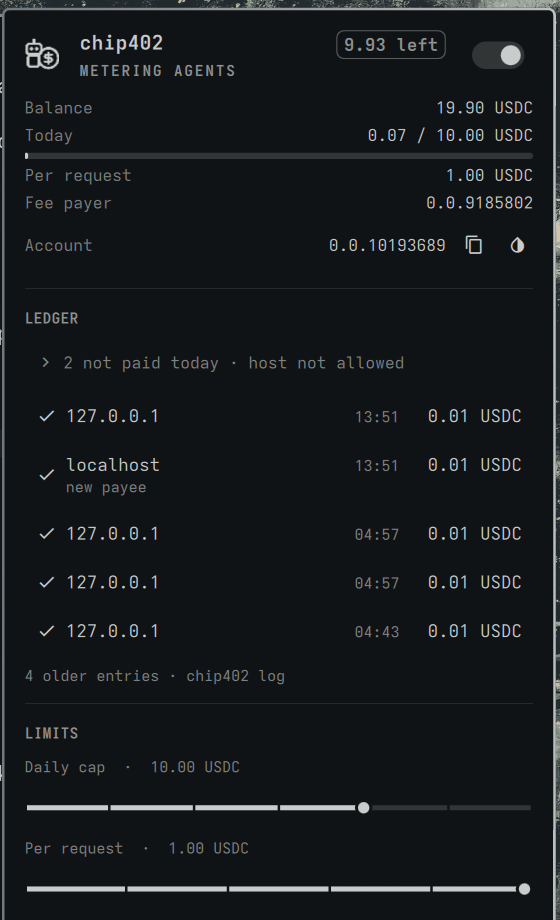
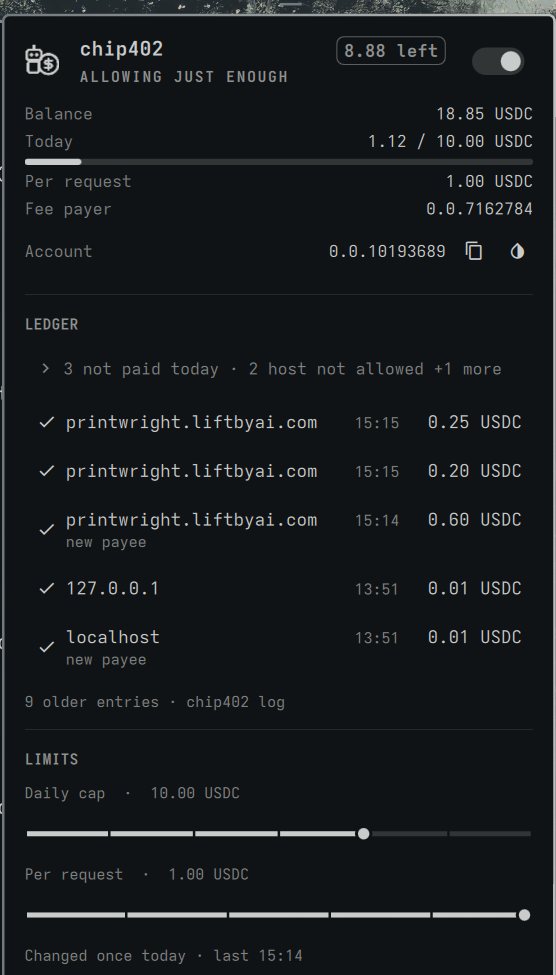
Say who holds the key, and prove the wire against a seller we did not write
Two gaps, both about being straight with the user.

**The key.** Nobody holds a passphrase, because there isn't one — setup
generated an unencrypted ECDSA key at mode 600 and said one line about it.
That is a defensible design (a daemon signing while you sleep cannot stop to
ask for a passphrase) but only if the user is told, and they weren't. setup
now says it out loud before the key exists: unencrypted, no passphrase,
readable by anything running as you, bounded by the caps rather than by the
key, and removable with rm. The panel's first setup step and a new README
section say the same thing.

**The proof.** Every settlement so far was against demo/seller.mjs — our own
code, our own facilitator. chip402 now pays Printwright, an independent x402
marketplace for 3D-printable models, which settles through a different
facilitator (api.testnet.blocky402.com, fee payer 0.0.7162784). Pointed at
it, chip402 discovered the new sponsor and bought three licences — 0.60,
0.20 and 0.25 USDC — each mirror-confirmed, each returning a real HCS-backed
certificate. A fourth invoice at 2.90 USDC was refused by the per-request
cap, silently, which is the half of the story that matters most.

preview.png is reshot on that: three third-party payments, a first-sight
payee, and the day's refusals collapsed into one line.

diff --git a/Model.js b/Model.js
@@ -398,7 +398,7 @@ function setupSteps() {
 }
 
 function setupHint(phase) {
-  if (phase === "need_key") return "chip402 needs an operator key before it can be funded"
+  if (phase === "need_key") return "A local key with no passphrase. Anything running as you can read it, so the caps — not the key — bound what it can lose"
   if (phase === "need_hbar") return "Send a little HBAR to the address below to create the account"
   if (phase === "completing") return "Writing the key on record — one cheap transaction, then payments can be signed"
   if (phase === "associating") return "Associating USDC so the account can hold it"

diff --git a/Panel.qml b/Panel.qml
@@ -105,7 +105,7 @@ Panel {
   }
 
   function setupSubtitle() {
-    if (chip402.phase === "need_key") return "A local Hedera key. Nothing leaves this machine."
+    if (chip402.phase === "need_key") return "Unencrypted at ~/.config/chip402/key, mode 600. No passphrase — the caps are the limit."
     if (chip402.phase === "need_hbar") return chip402.evmAddress || "Waiting for the EVM address"
     if (chip402.phase === "completing") return "One cheap self-signed transaction, then it can pay"
     if (chip402.phase === "associating") return "Needs a little HBAR for the association fee"

diff --git a/README.md b/README.md
@@ -118,14 +118,55 @@ Removal does not write to any other Omarchy config unless you previously enabled
 4. The facilitator co-signs and submits. Network fees are not paid by the operator.
 5. The panel watches `~/.local/state/chip402/state.json` and appends a ledger row.
 
-Operator key: `~/.config/chip402/key` (ECDSA, DER, mode 600).
-Config: `~/.config/chip402/config.json`.
+## The key, and who holds it
+
+Nobody holds a passphrase, because there isn't one.
+
+`chip402 setup` generates a Hedera ECDSA key and writes it to `~/.config/chip402/key`,
+**mode 600, unencrypted**. A daemon that signs invoices while you are not watching cannot stop
+to ask for a passphrase, so the key is protected by file permissions and by the spend caps
+rather than by a secret you remember. `setup` says all of this out loud before it creates the
+key, and the panel repeats it on the first setup step.
+
+What follows from that:
+
+- **Anything running as your user can read the file. So can root.** chip402 does not defend
+  against code you have already run — the same is true of your SSH keys. What it defends
+  against is an agent overspending, a browser reaching the daemon, and a seller being paid
+  twice.
+- **The caps bound the loss, not the key.** 10 USDC/day and 1 USDC per request by default,
+  enforced before anything is signed, with a kill switch on the bar.
+- **Treat the balance like a coat pocket.** Top it up from a real wallet; do not park savings
+  in it. The plugin holds an *operator* account, not your wallet.
+- **Revoking is `rm ~/.config/chip402/key`.** The funds stay on Hedera and nothing can move
+  them without the key. chip402 refuses to start if the file is looser than 600, and redacts
+  DER and PEM keys from its logs.
+
+Config: `~/.config/chip402/config.json`. Nothing is written outside `~/.config/chip402` and
+`~/.local/state/chip402`.
 
 ## Testnet only, on purpose
 
 chip402 runs on Hedera **testnet**. The payments are real — real USDC moving between real
 accounts, with each settlement confirmed against the mirror node rather than taken on the
 seller's word — but the money is testnet money.
+
+It has been proven against a seller it did not author. [Printwright](https://printwright.liftbyai.com)
+is an independent x402 marketplace for licensed 3D-printable models, settling through a
+different facilitator (`api.testnet.blocky402.com`, fee payer `0.0.7162784`) than chip402's
+default. Point chip402 at that facilitator and it discovers the new sponsor, pays, and gets a
+real licence back:
+
+| What happened | Proof |
+| --- | --- |
+| 0.60 USDC — commercial licence, *Beaver Desk Mascot with Hat* | [`0.0.7162784@1787550243.004621353`](https://hashscan.io/testnet/transaction/0.0.7162784%401787550243.004621353) · certificate `pw-7a2587cc0345bc49fd3e70b3` |
+| 0.20 USDC — *Bag Sealer* | [`0.0.7162784@1787550318.813448723`](https://hashscan.io/testnet/transaction/0.0.7162784%401787550318.813448723) |
+| 0.25 USDC — *Cable Clip* | [`0.0.7162784@1787550330.669218212`](https://hashscan.io/testnet/transaction/0.0.7162784%401787550330.669218212) |
+| A 2.90 USDC invoice **refused** by the per-request cap | `per_request_cap: Invoice 2900000 exceeds per-request cap 1000000` |
+
+The mirror node shows the first as `0.0.10193689 -600000` / `0.0.9584959 +600000` on token
+`0.0.429274`, `SUCCESS`. The refusal is the point as much as the payments are: chip402 declined
+a real invoice from a real seller, silently, without asking anyone.
 
 Mainnet is written and not armed:
 
